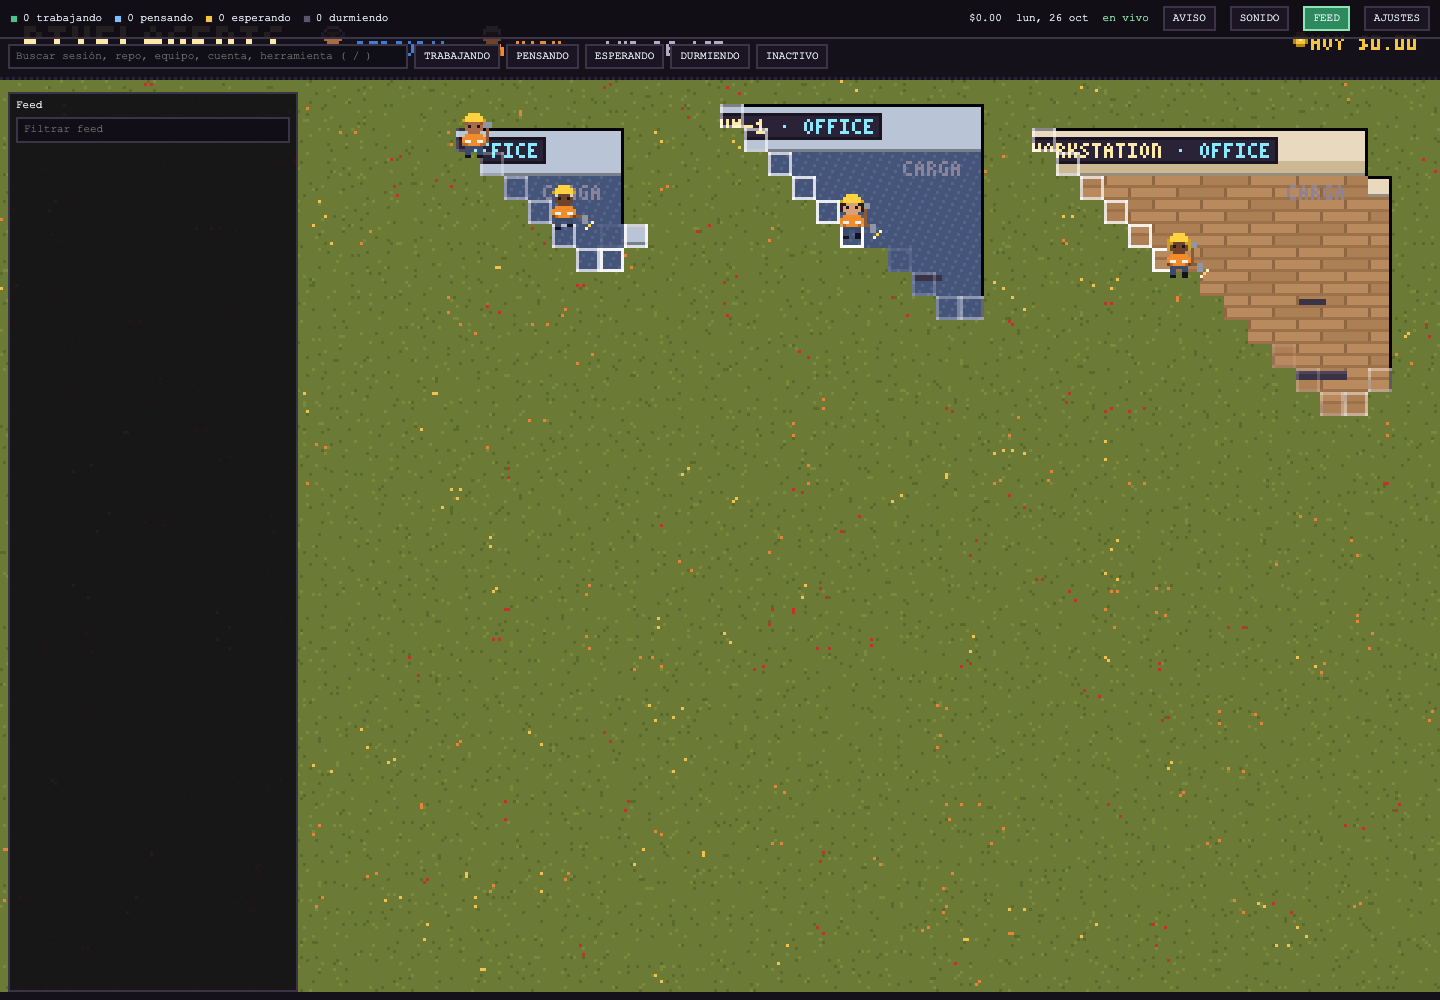
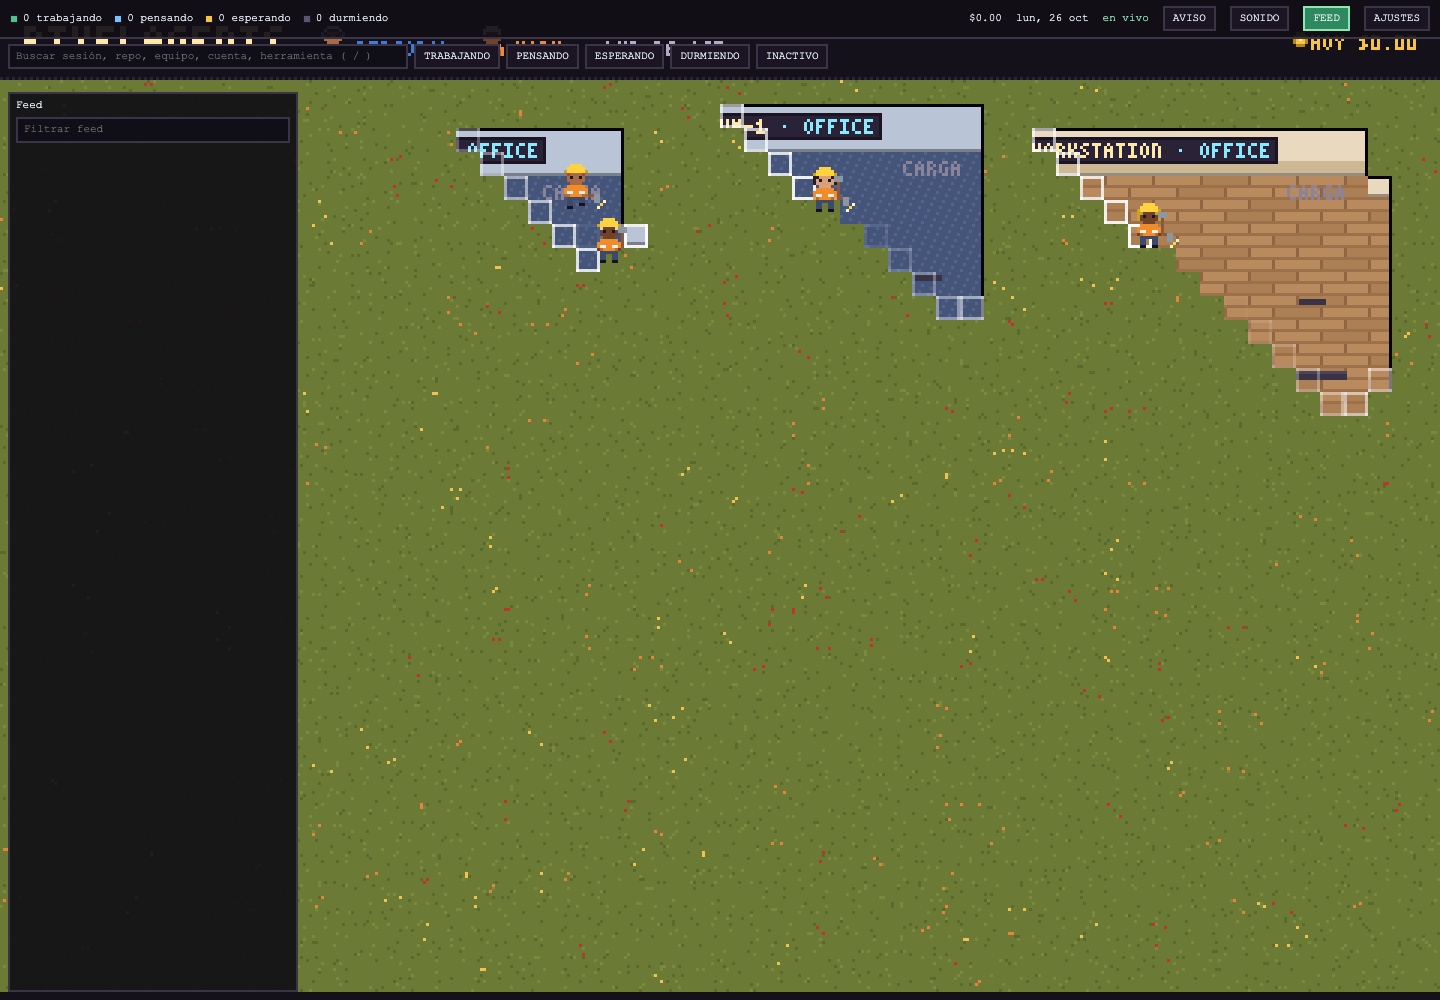
scene: quitar la barra HUD del canvas (el inspector ya la muestra)

diff --git a/packages/web/src/scene/scene.ts b/packages/web/src/scene/scene.ts
@@ -25,7 +25,7 @@ import { EMOJI_DUR, emojiAt, gagAt, allowedGags } from './fun.js';
 import { drawIcon } from './icons.js';
 import { behaviorFor, buildWorldInput, groupOf, placementFor } from './input.js';
 import {
-  RUGS, bubble, drawBuilder, drawChair, drawCoin, drawDeco, drawDeskBuilt, drawDoor, drawMinis, drawMonitor, drawPig, drawPod,
+  RUGS, bubble, drawBuilder, drawChair, drawDeco, drawDeskBuilt, drawDoor, drawMinis, drawMonitor, drawPig, drawPod,
   drawRug, drawThermo, hash, poof, sayBubble, talkBubble, txtW, type PodState,
 } from './props.js';
 import { paintConstruction, paintWorld, worldSize, type WorldArt } from './worldpaint.js';
@@ -53,7 +53,6 @@ export class Scene implements SceneApi {
   private worldArt: WorldArt | null = null;
   private worldLayer: PainterLayer | null = null;
   private dyn: PainterLayer | null = null;
-  private hud: PainterLayer;
   private inputKey = '';
   private geoKey = '';
   /** Scene time at which the current world started building (seconds). */
@@ -68,7 +67,6 @@ export class Scene implements SceneApi {
   private ctx: BehaviorContext;
   private randomSeed = Math.random().toString(36).slice(2, 8);
   private dirty = true;
-  private hudNext = 0;
   private offices: OfficeRt[] = [];
   private talkNext = new Map<string, number>();
 
@@ -79,8 +77,6 @@ export class Scene implements SceneApi {
     registerSceneBehaviors();
     bridgeStrategies();
     this.ctx = { world: this.engine.ecs, width: this.engine.width, height: this.engine.height, dt: 0 };
-    this.hud = new PainterLayer(this.engine.width, GY);
-    this.engine.layers.ui.addChild(this.hud.sprite);
     this.tip = document.createElement('div');
     Object.assign(this.tip.style, {
       position: 'absolute', pointerEvents: 'none', display: 'none', font: '12px ui-monospace, Menlo, monospace', color: '#ffe9a8',
@@ -266,7 +262,7 @@ export class Scene implements SceneApi {
       if (d.gone && this.removed.has(id)) this.despawn(id);
     }
     const L = this.layout, wa = this.worldArt;
-    if (!L || !wa || !this.worldLayer || !this.dyn) { this.drawHud(); return; }
+    if (!L || !wa || !this.worldLayer || !this.dyn) return;
     if (this.building) {
       if (this.tb >= L.build.buildEnd) {
         this.building = false;
@@ -282,7 +278,6 @@ export class Scene implements SceneApi {
     g.clear();
     this.paint(g, clock.t);
     this.dyn.flush();
-    this.drawHud();
   }
 
   private scheduleTalks(): void {
@@ -559,35 +554,6 @@ export class Scene implements SceneApi {
         drawBuilder(g, this.art, x, y, look, t + b * 0.3);
       }
     });
-  }
-
-  private drawHud(): void {
-    if (clock.t < this.hudNext) return;
-    this.hudNext = clock.t + 0.2;
-    const g = this.hud.painter, W = g.width, t = clock.t;
-    g.clear();
-    g.rect(0, 0, W, GY, '#14111b');
-    for (let x = 0; x < W; x += 2) g.px(x, GY - 1, '#2a2236');
-    g.text('PIXELAGENTS', 8, 6, '#ffe9a8', 2);
-    let lx = 106;
-    const skins = [...new Set([...this.store.entities.values()].filter((e) => e.kind === 'agent').map((e) => e.view?.skin || 'default'))].sort().slice(0, 4);
-    skins.forEach((sk, i) => {
-      const look = lookFor(sk, i * 5 + 2, this.config);
-      drawChar(g, this.art, lx, 6, look, { face: ((t + i) % 3) < 0.12 ? 'blink' : null });
-      const name = sk.toUpperCase().slice(0, 10);
-      g.text(name, lx + 13, 11, look.pal.B ?? '#ffe9a8');
-      lx += 14 + txtW(name) + 8;
-    });
-    const d = this.now();
-    const DOW = ['DOM', 'LUN', 'MAR', 'MIE', 'JUE', 'VIE', 'SAB'], MON = ['ENE', 'FEB', 'MAR', 'ABR', 'MAY', 'JUN', 'JUL', 'AGO', 'SEP', 'OCT', 'NOV', 'DIC'];
-    const label = `${DOW[d.getDay()]} ${d.getDate()} ${MON[d.getMonth()]}`;
-    if (lx + 6 + txtW(label) < W - 90) g.text(label, lx + 6, 11, '#b3abc4');
-    let total = 0;
-    for (const e of this.store.entities.values()) total += e.metrics?.cost_usd ?? 0;
-    const tt = 'HOY $' + total.toFixed(2);
-    drawCoin(g, this.art, W - 14 - txtW(tt), 8); g.text(tt, W - 8 - txtW(tt), 9, '#f5c542');
-    if (this.store.status !== 'open') g.text(this.store.status === 'idle' ? '' : this.store.status.toUpperCase(), W - 8 - txtW(this.store.status), 17, '#e5533d');
-    this.hud.flush();
   }
 
   // ---------------- pointer, SceneApi ----------------
